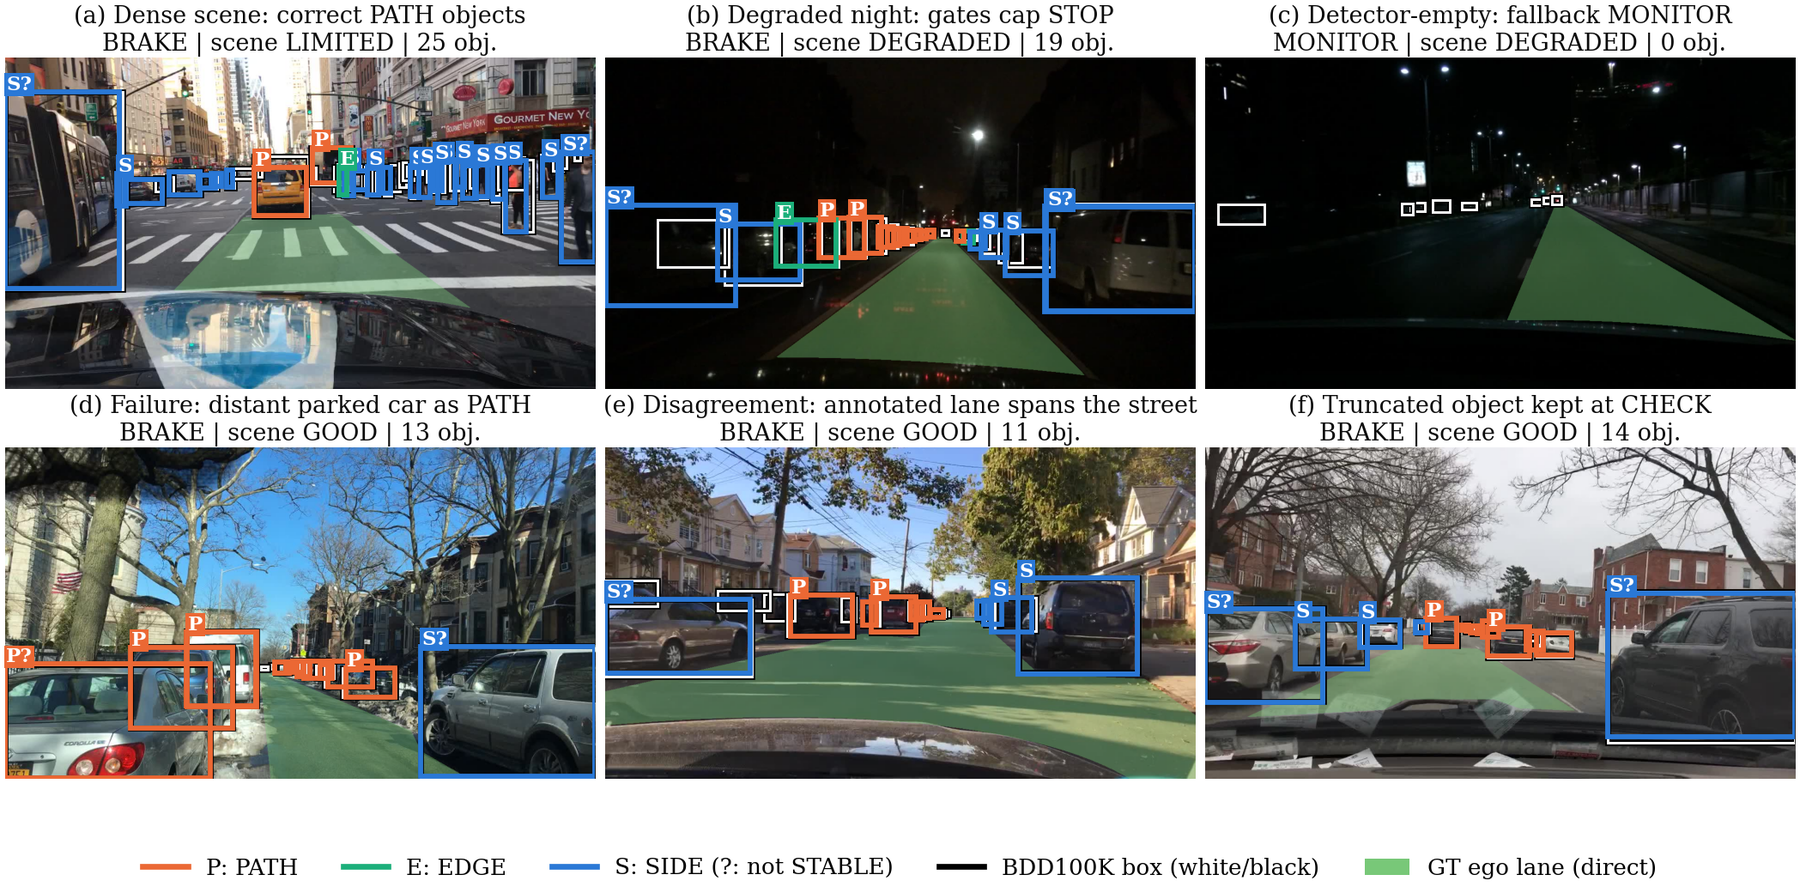
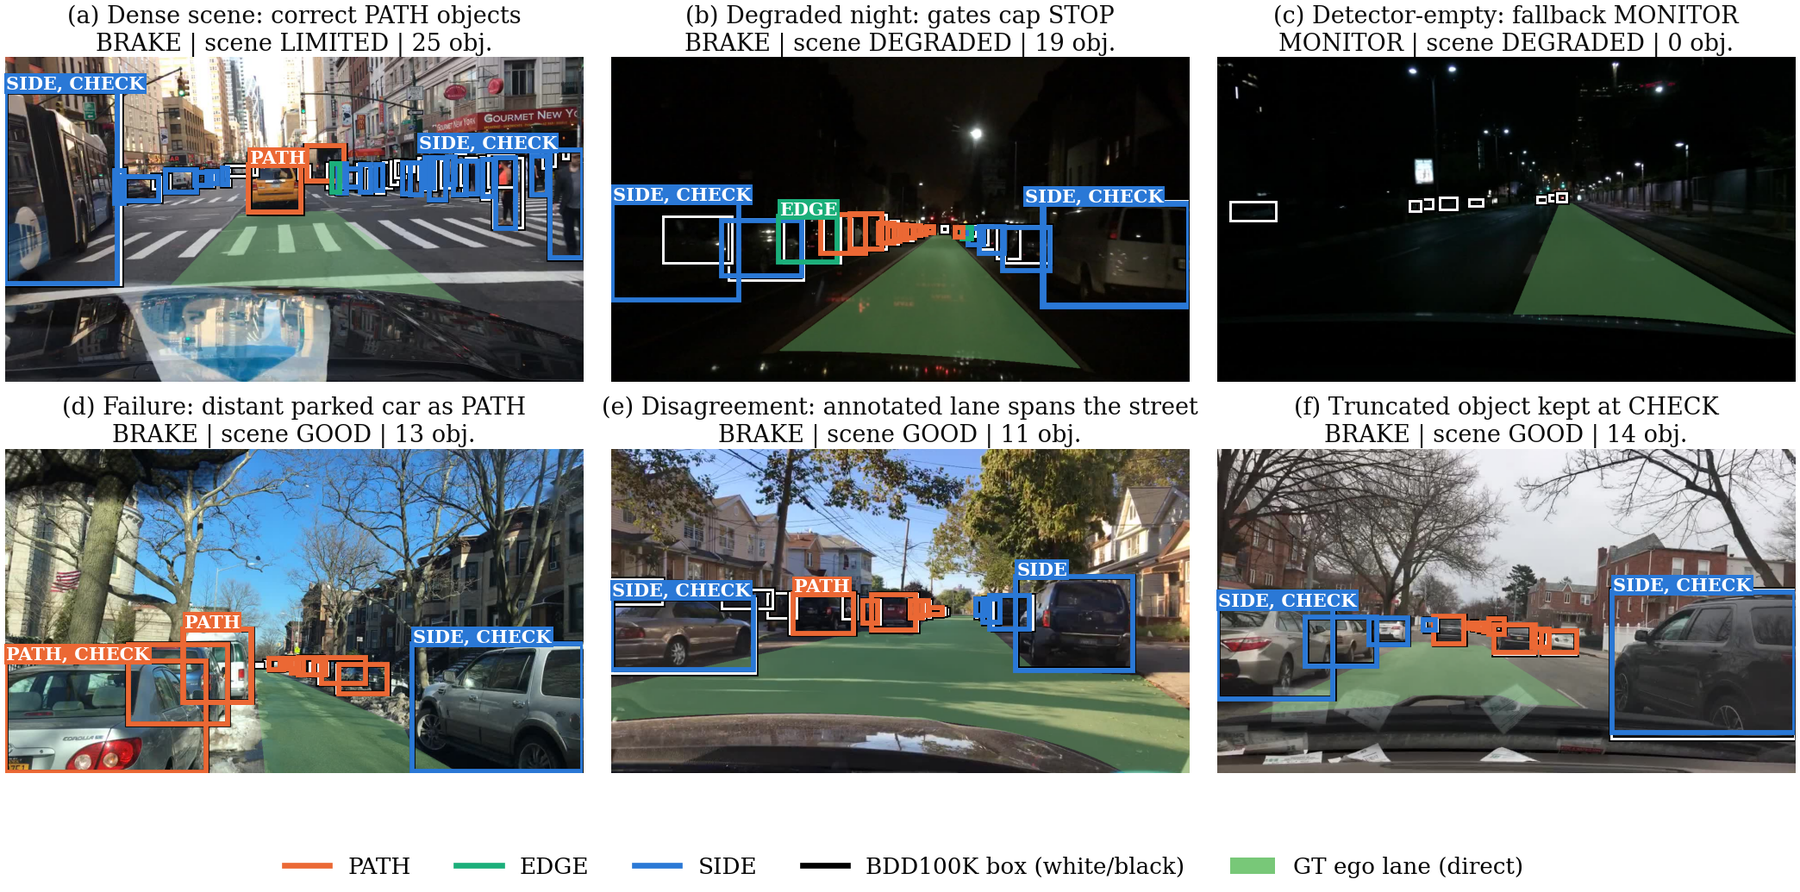
README: example images and text with the depth state written out (CHECK)

diff --git a/README.md b/README.md
@@ -149,7 +149,7 @@ record. Real outputs on BDD100K validation images:
   </tr>
   <tr>
     <td>Daytime: the car ahead is in the <code>PATH</code> and raises <code>BRAKE</code>; parked cars are <code>SIDE</code> and stay at <code>MONITOR</code>.</td>
-    <td>Night, <code>DEGRADED</code> scene: the gates keep the advisory at <code>BRAKE</code>; non-<code>STABLE</code> depth is marked with <code>?</code>.</td>
+    <td>Night, <code>DEGRADED</code> scene: the gates keep the advisory at <code>BRAKE</code>; depth that is not <code>STABLE</code> is labeled <code>CHECK</code>.</td>
   </tr>
 </table>
 
@@ -157,8 +157,9 @@ record. Real outputs on BDD100K validation images:
 (`CLEAR` grey, `MONITOR` blue, `SLOW` yellow, `BRAKE` orange, `STOP` red); objects at `SLOW` or above
 are also filled. A label reads `class confidence  relation  u<index>`: `relation` is `PATH`,
 `EDGE` or `SIDE`, and `u` is the relative depth index (smaller is nearer, within this image only).
-A `?` after `u` (shown in amber) means the depth estimate is `CHECK` or `UNCERTAIN`. In crowded
-scenes the most severe objects get full labels and the others a one-letter tag (`P`, `E`, `S`).
+When the depth estimate is not `STABLE`, its state (`CHECK` or `UNCERTAIN`) follows `u`, in amber.
+In crowded scenes the most severe objects get full labels and the others a short tag (`PATH`,
+`EDGE`, `SIDE`).
 The card at the top left gives the global advisory, the object that decided it, the scene quality
 and the depth-only corridor state. Everything shown is read from the audit record; the overlay
 computes nothing.
